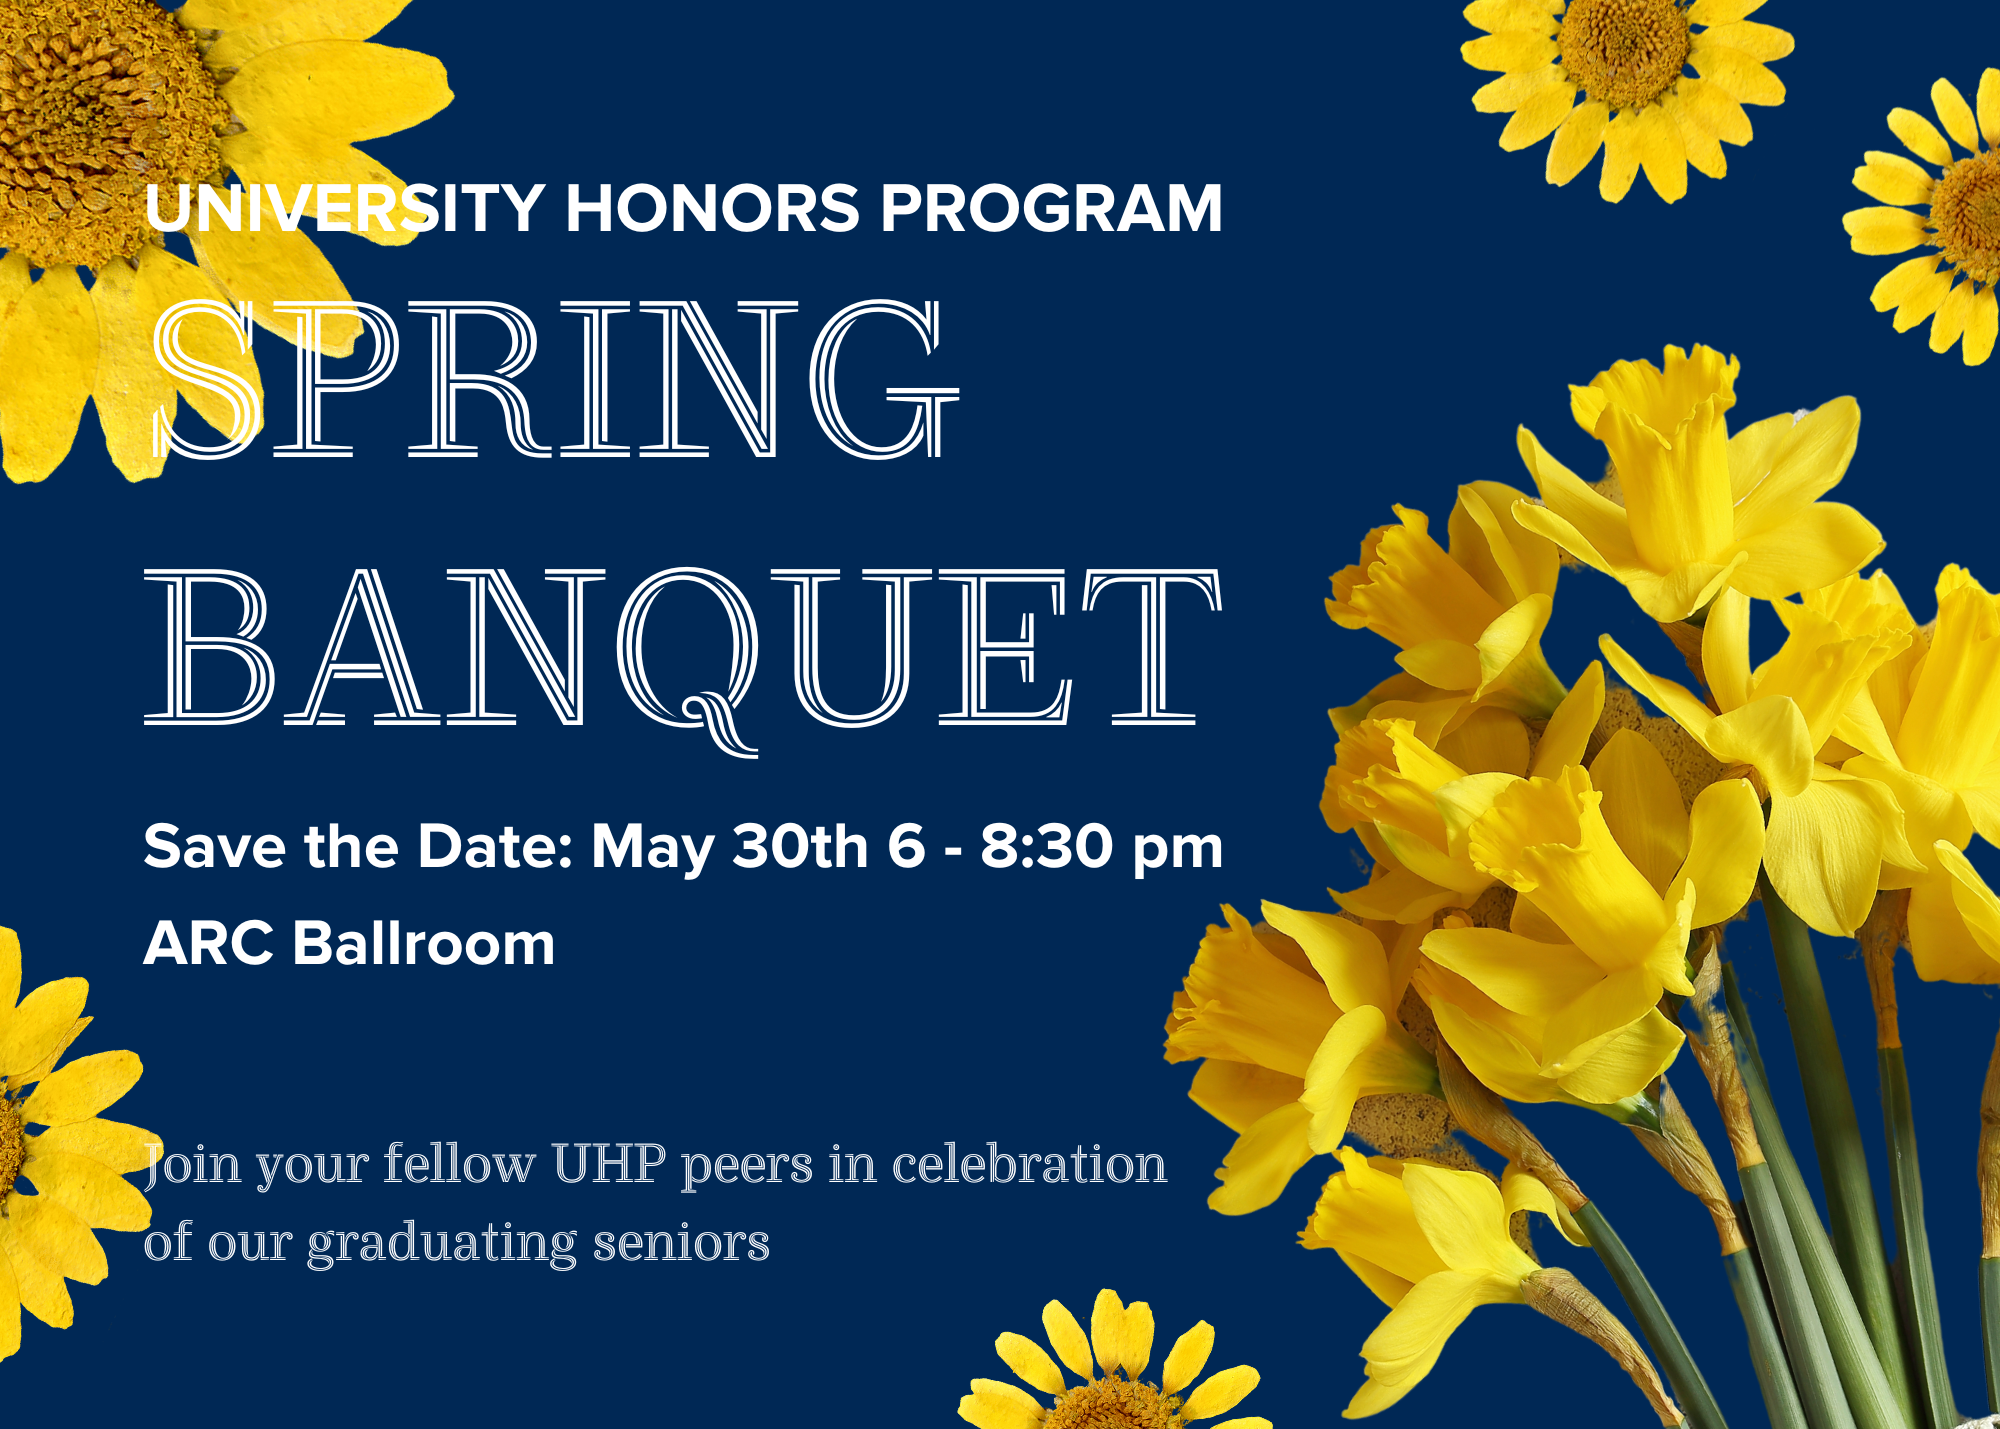
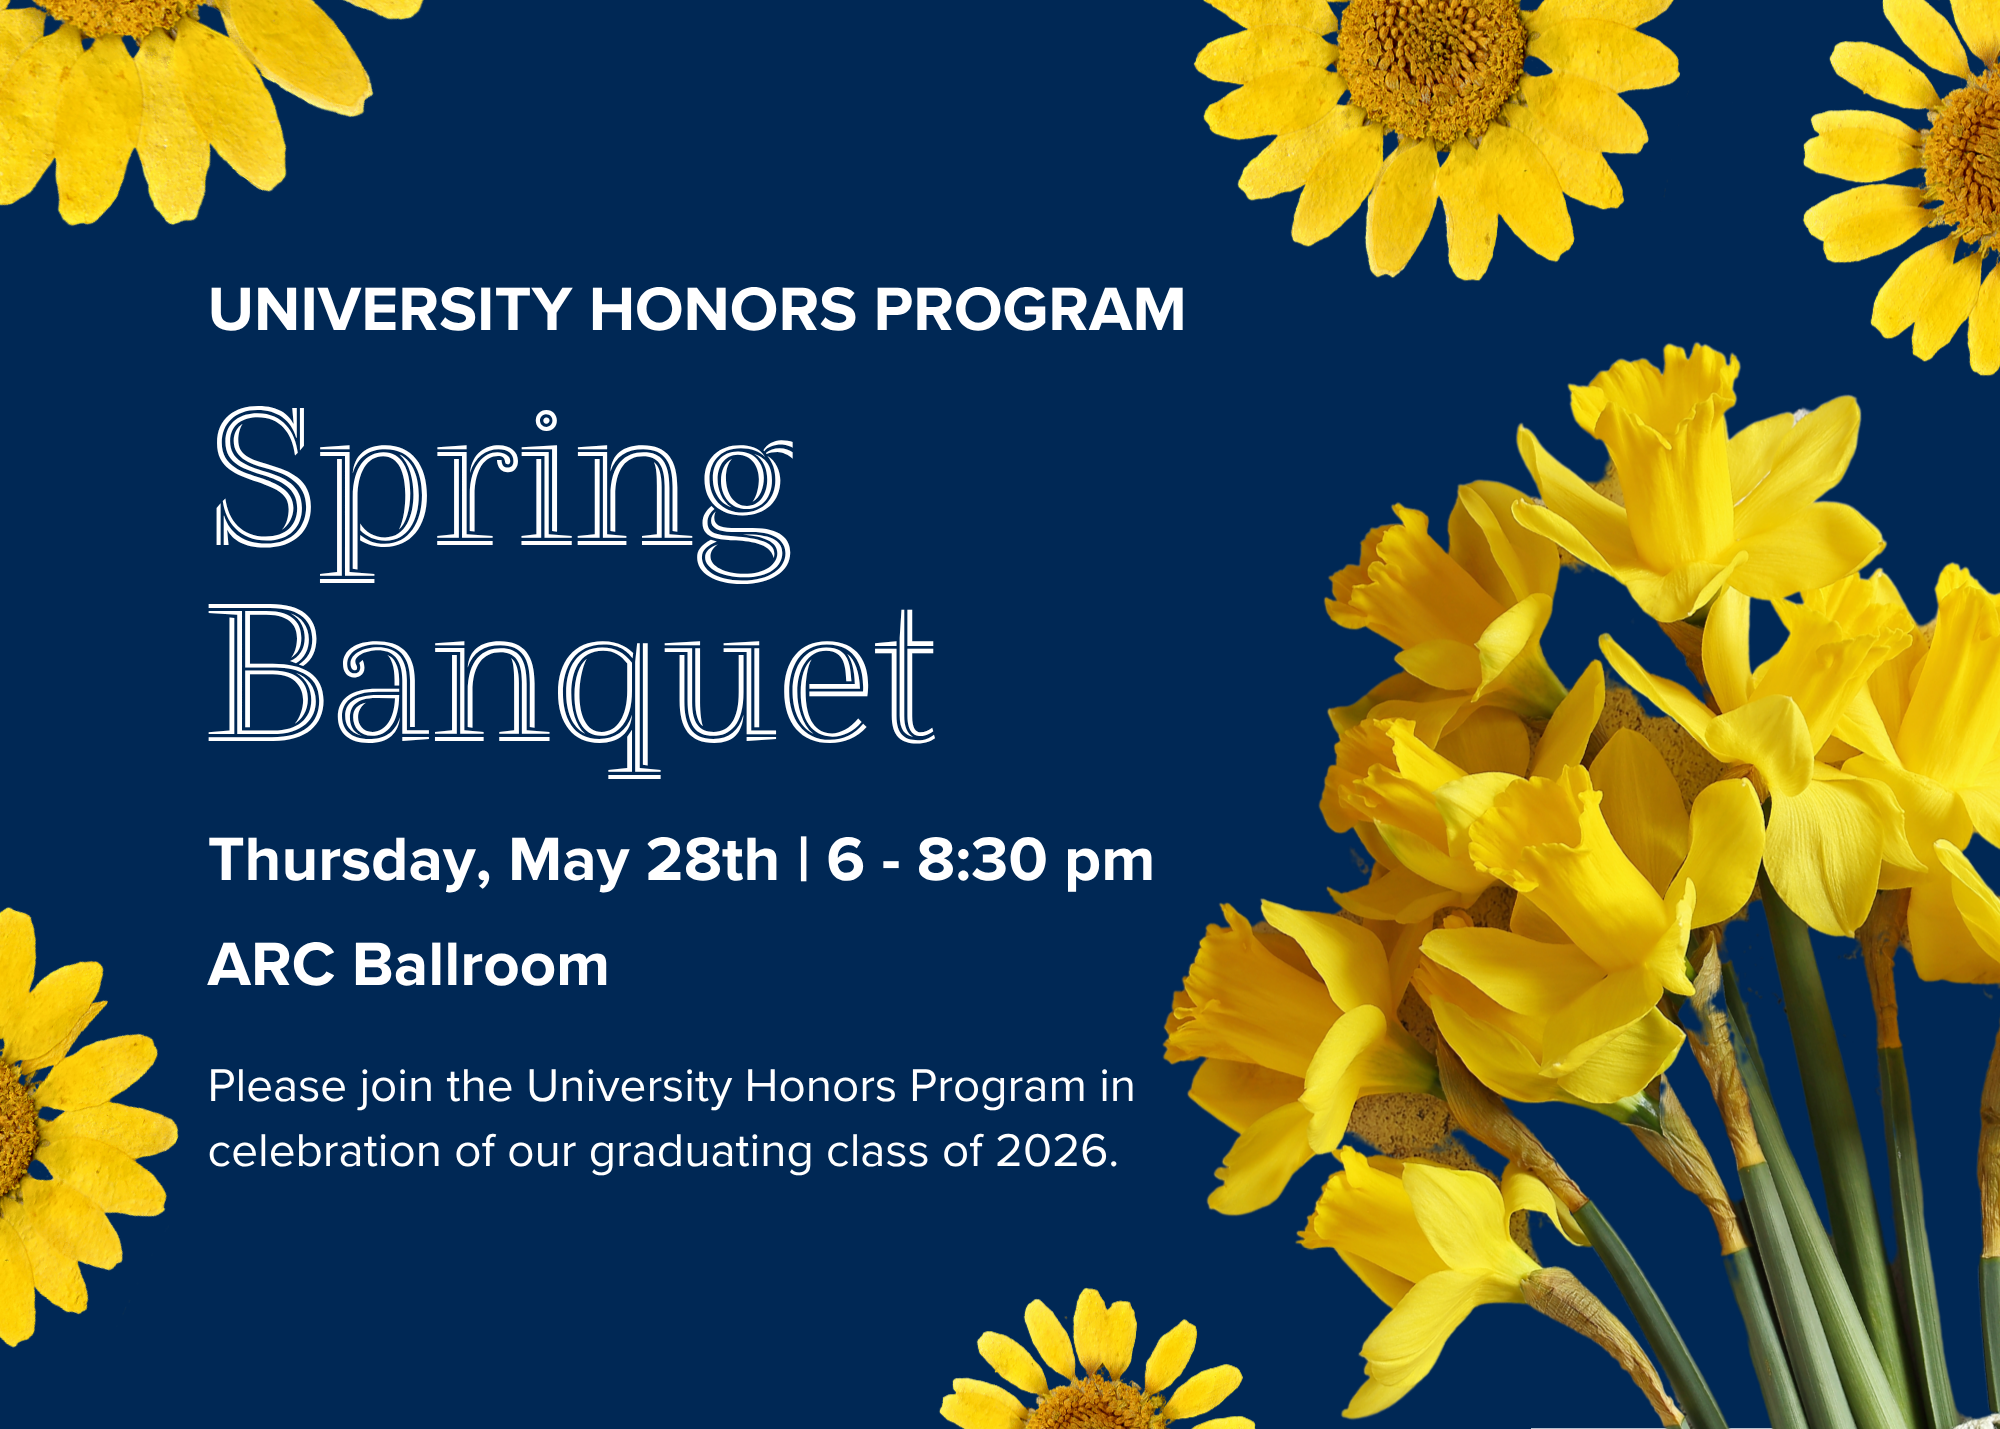
updated for 2026

diff --git a/baroqautomata.html b/baroqautomata.html
@@ -1,0 +1,155 @@
+<!DOCTYPE html>
+<html lang="en">
+<head>
+    <meta charset="UTF-8">
+    <meta name="viewport" content="width=device-width, initial-scale=1.0">
+    <title>Baroqautomata</title>
+
+    <!--Normalize CSS-->
+    <link href="https://cdnjs.cloudflare.com/ajax/libs/normalize/8.0.1/normalize.min.css" rel="stylesheet">
+
+    <!--Google Fonts-->
+    <link rel="preconnect" href="https://fonts.googleapis.com">
+    <link rel="preconnect" href="https://fonts.gstatic.com" crossorigin>
+    <link href="https://fonts.googleapis.com/css2?family=IBM+Plex+Sans:ital,wght@0,100..700;1,100..700&display=swap" rel="stylesheet">
+
+    <!-- Font Awesome -->
+    <script src="https://kit.fontawesome.com/b1a23226bb.js" crossorigin="anonymous"></script>
+
+
+    <!--Stylesheet-->
+    <link rel="stylesheet" href="responsivestyles.css">
+
+    <!-- Favicon -->
+    <link rel="icon" type="image/x-icon" href="images/favicon.png">
+
+</head>
+
+<script>
+document.addEventListener('DOMContentLoaded', function() {
+  const modal = document.getElementById('imageModal');
+  const modalImg = document.getElementById('modalImage');
+  const closeBtn = document.querySelector('.modal-close');
+  
+  // Add click handler to all .clickable images
+  document.querySelectorAll('.clickable').forEach(img => {
+    img.onclick = function() {
+      modal.style.display = 'block';
+      modalImg.src = this.src;
+    }
+  });
+  
+  // Close modal when X is clicked
+  closeBtn.onclick = function() {
+    modal.style.display = 'none';
+  }
+  
+  // Close modal when clicking outside the image
+  modal.onclick = function(e) {
+    if (e.target === modal) {
+      modal.style.display = 'none';
+    }
+  }
+});
+</script>
+
+<body>
+    <header>
+        <nav>
+            <ul>
+                <li><a href="index.html">home</a></li>
+                <li><a class="current" href="projects.html">work</a></li>
+                <li><a href="play.html">play</a></li>
+                <li><a href="photography.html">photo</a></li>
+                <li><a href="about.html">about</a></li>
+            </ul>
+        </nav>
+    </header>
+
+    <main>
+        <div id="imageModal" class="modal">
+            <span class="modal-close">&times;</span>
+            <img class="modal-content" id="modalImage">
+        </div>
+        <article>
+
+            <!-- Article Header -->
+
+            <section class="articleHeader">
+                <h1>Baroqautomata</h1>
+                <h2>Brand Identity Development</h2>
+                <div>
+                    <div>
+                    <img class="icon" src="images/clockicon.png" alt="time icon">
+                    <p>Timeline: January 2026 - March 2065</p>
+                    </div>
+                    <div>
+                    <img class="icon" src="images/toolicon.png" alt="tool icon">
+                    <p>Tools: Adobe Illustrator, Adobe Photoshop, Adobe InDesign, Miro</p>
+                    </div>  
+                </div>
+                <img id="hero" src="images/baroqautomata/des116_brandbook.png" alt="Baroqautomata Cover">
+            </section>
+
+            <!-- Article Content -->
+
+            <section>
+                <h6>[CONTEXT]</h6>
+                <p>
+                    Baroqautomata is a music festival concept developed for DES 116: Visual Communication Studio at UC Davis. The festival draws inspiration from the rapid progress in technological advancement during the baroque period that led to a distinctive musical sound featuring increased use of manufactured instruments and a characteristic emphasis on ornamentation, exaggeration, and contrast. The design system plays with the tensions between past and future, tradition and innovation, using strong contrasts in color, form, and concept.
+                </p>
+            </section>
+
+            <section>
+                <h6>[BRAND BOOK]</h6>
+                <img src="images/baroqautomata/des116_brandbook2.png" alt="page 2">
+                <img src="images/baroqautomata/des116_brandbook3.png" alt="page 3">
+                <img src="images/baroqautomata/des116_brandbook4.png" alt="page 4">
+                <img src="images/baroqautomata/des116_brandbook5.png" alt="page 5">
+                <img src="images/baroqautomata/des116_brandbook6.png" alt="page 6">
+                <img src="images/baroqautomata/des116_brandbook7.png" alt="page 7">
+                <img src="images/baroqautomata/des116_brandbook8.png" alt="page 8">
+                <img src="images/baroqautomata/des116_brandbook9.png" alt="page 9">
+            </section>
+
+
+            <div class="seeMoreButton">
+                <p>Thanks for reading!</p>
+                <a href="projects.html">View Additional Projects</a>
+            </div>
+            
+        </article>
+        
+        
+    </main>
+    <footer>
+        <div>
+            <img class="footnote" src="images/footer.png" alt="designed + coded with <3 in Davis, CA">
+        
+            <div class="contact">
+                <div>
+                <img class="icon" src="images/envelopeWhite.png" alt="envelope icon">
+                <a href="mailto:&#101;&#109;&#112;&#097;&#114;&#107;&#049;&#050;&#048;&#049;&#064;&#103;&#109;&#097;&#105;&#108;&#046;&#099;&#111;&#109;" target="_blank" rel="noopener noreferrer">&#101;&#109;&#112;&#097;&#114;&#107;&#049;&#050;&#048;&#049;&#064;&#103;&#109;&#097;&#105;&#108;&#046;&#099;&#111;&#109;</a>
+                </div>
+                <div>
+                <img class="icon" src="images/linkWhite.png" alt="link icon">
+                <a href="https://www.linkedin.com/in/erin-park-a44ba2264/" target="_blank" rel="noopener noreferrer">my LinkedIn</a>
+                </div>
+            
+            </div>
+            
+            <div>
+                <p>Thanks for visiting!</p>
+                <p>© 2026 Erin Park</p>
+            </div>    
+        </div>
+        <ul>
+            <li><a href="projects.html">work</a></li>
+            <li><a href="play.html">play</a></li>
+            <li><a href="photography.html">photo</a></li>
+            <li><a href="about.html">about</a></li>
+        </ul>
+
+    </footer>
+</body>
+</html>

diff --git a/index.html b/index.html
@@ -123,9 +123,16 @@ document.addEventListener('DOMContentLoaded', function() {
 
             <article class="block">
                 <img src="images/uhphero.jpg" alt="UC Davis Honors">
-                <h4><u><a href="ucdhonors.html"></a>UC Davis Honors</u></h4>
+                <h4><u><a href="ucdhonors.html">UC Davis Honors</a></u></h4>
                 <p>Case Study: Message Campaign</h6>
                 <p>Highlighting diverse student experiences in UC Davis Honors.</p>
+            </article>
+
+            <article class="block">
+                <img src="images/baroqautomata_hero.png" alt="baroqautomata_hero">
+                <h4><u><a href="baroqautomata.html">Baroqautomata</a></u></h4>
+                <p>Case Study: Brand Identity</h6>
+                <p>Playing with tension between past and future for a baroque music festival.</p>
             </article>
 
             <article class="block">

diff --git a/projects.html b/projects.html
@@ -72,6 +72,23 @@
 
         <hr>
 
+        <div class="horizontalCard">
+            <img src="images/baroqautomata_hero.png" alt="Baroqautomata">
+            
+            <div>
+                <h2><u><a href="baroqautomata.html">Baroqautomata</a></u></h2>
+                <h4>Case Study: Brand Identity</h4>
+                <p>
+                    Playing with tension between past and future for a baroque music festival.
+                </p>
+                <p><b>
+                    Timeline: January 2026 - March 2026
+                </b></p>
+            </div>
+        </div>
+
+        <hr>
+
          <div class="horizontalCard">
             <img src="images/noteablehero.png" alt="Noteable">
             <div>

diff --git a/responsivestyles.css b/responsivestyles.css
@@ -577,6 +577,7 @@ hr{
 
     p{
       font-size: 1.6vw;
+      line-height: 1.5em;
     }
 
     .twoColumn{
